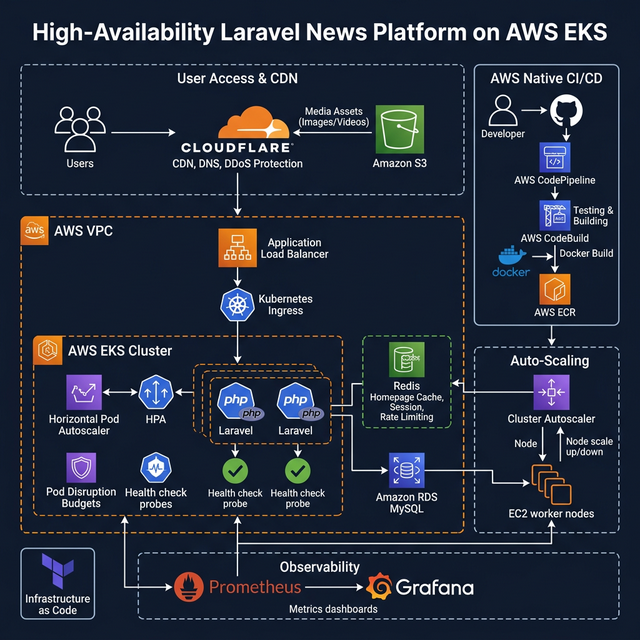
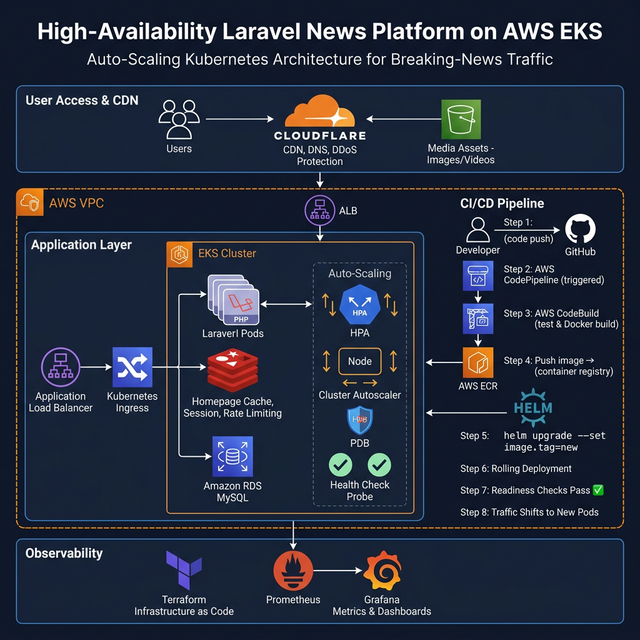
feat: Add subtitle and detailed Helm-based deployment workflow to the Laravel EKS project, and update associated images.

diff --git a/index.html b/index.html
@@ -742,6 +742,8 @@
                                     data-label="Laravel EKS"></div>
                                 <div class="project-body">
                                     <h3>High-Availability Laravel News Platform on AWS EKS</h3>
+                                    <p style="font-size:0.85rem;color:#64748b;margin-top:-0.3rem;margin-bottom:0.5rem;">
+                                        Auto-Scaling Kubernetes Architecture for Breaking-News Traffic</p>
                                     <p>Migrated a legacy EC2-based Laravel news platform to a scalable containerized
                                         architecture on AWS EKS with automated scaling, Redis caching, and Cloudflare
                                         CDN.</p>
@@ -788,16 +790,24 @@
                                         </details>
 
                                         <details>
-                                            <summary>🔧 CI/CD Pipeline</summary>
+                                            <summary>🔧 Deployment Workflow</summary>
                                             <div class="section-content">
-                                                <p>AWS-native CI/CD pipeline:</p>
+                                                <p>AWS-native CI/CD pipeline with Helm-based deployment:</p>
                                                 <ul>
-                                                    <li><strong>CodePipeline</strong> — Triggered by GitHub commits</li>
-                                                    <li><strong>CodeBuild</strong> — Runs tests and builds Docker images
+                                                    <li><strong>Developer push</strong> → GitHub repository</li>
+                                                    <li><strong>CodePipeline</strong> triggered automatically</li>
+                                                    <li><strong>CodeBuild</strong> — Runs tests and builds Docker image
                                                     </li>
-                                                    <li><strong>ECR</strong> — Container image registry</li>
-                                                    <li><strong>Rolling Updates</strong> — Zero-downtime deployments to
-                                                        EKS</li>
+                                                    <li><strong>Push image</strong> → Amazon ECR (container registry)
+                                                    </li>
+                                                    <li><strong>Helm upgrade</strong> — Updates image tag in Helm chart
+                                                        values</li>
+                                                    <li><strong>Rolling Deployment</strong> — New pods created alongside
+                                                        old pods</li>
+                                                    <li><strong>Readiness checks pass</strong> — Health probes validate
+                                                        new pods</li>
+                                                    <li><strong>Traffic shifts</strong> — Old pods terminated, traffic
+                                                        routes to new pods</li>
                                                 </ul>
                                             </div>
                                         </details>
@@ -881,6 +891,7 @@
                                                     <span class="stack-item">Cluster Autoscaler</span>
                                                     <span class="stack-item">Prometheus</span>
                                                     <span class="stack-item">Grafana</span>
+                                                    <span class="stack-item">Helm</span>
                                                     <span class="stack-item">Docker</span>
                                                 </div>
                                             </div>
@@ -898,11 +909,14 @@
                                                 <p style="margin-top:0.7rem"><strong>Architecture Overview</strong></p>
                                                 <p>This platform demonstrates a high-availability architecture for a
                                                     news portal built on AWS EKS. Users access the platform through
-                                                    Cloudflare CDN with S3-backed media delivery. The application runs
-                                                    as containerized Laravel services with Redis caching, dual-layer
-                                                    auto-scaling (HPA + Cluster Autoscaler), and AWS-native CI/CD
-                                                    pipelines (CodePipeline, CodeBuild, ECR). Full observability is
-                                                    provided through Prometheus and Grafana.</p>
+                                                    Cloudflare CDN with S3-backed media delivery. The CI/CD pipeline
+                                                    flows
+                                                    through CodePipeline → CodeBuild → ECR → Helm upgrade → Rolling
+                                                    Deployment with readiness checks. The application runs as
+                                                    containerized
+                                                    Laravel services with Redis caching, dual-layer auto-scaling (HPA +
+                                                    Cluster Autoscaler), and full observability through Prometheus and
+                                                    Grafana.</p>
                                             </div>
                                         </details>
                                     </div>
